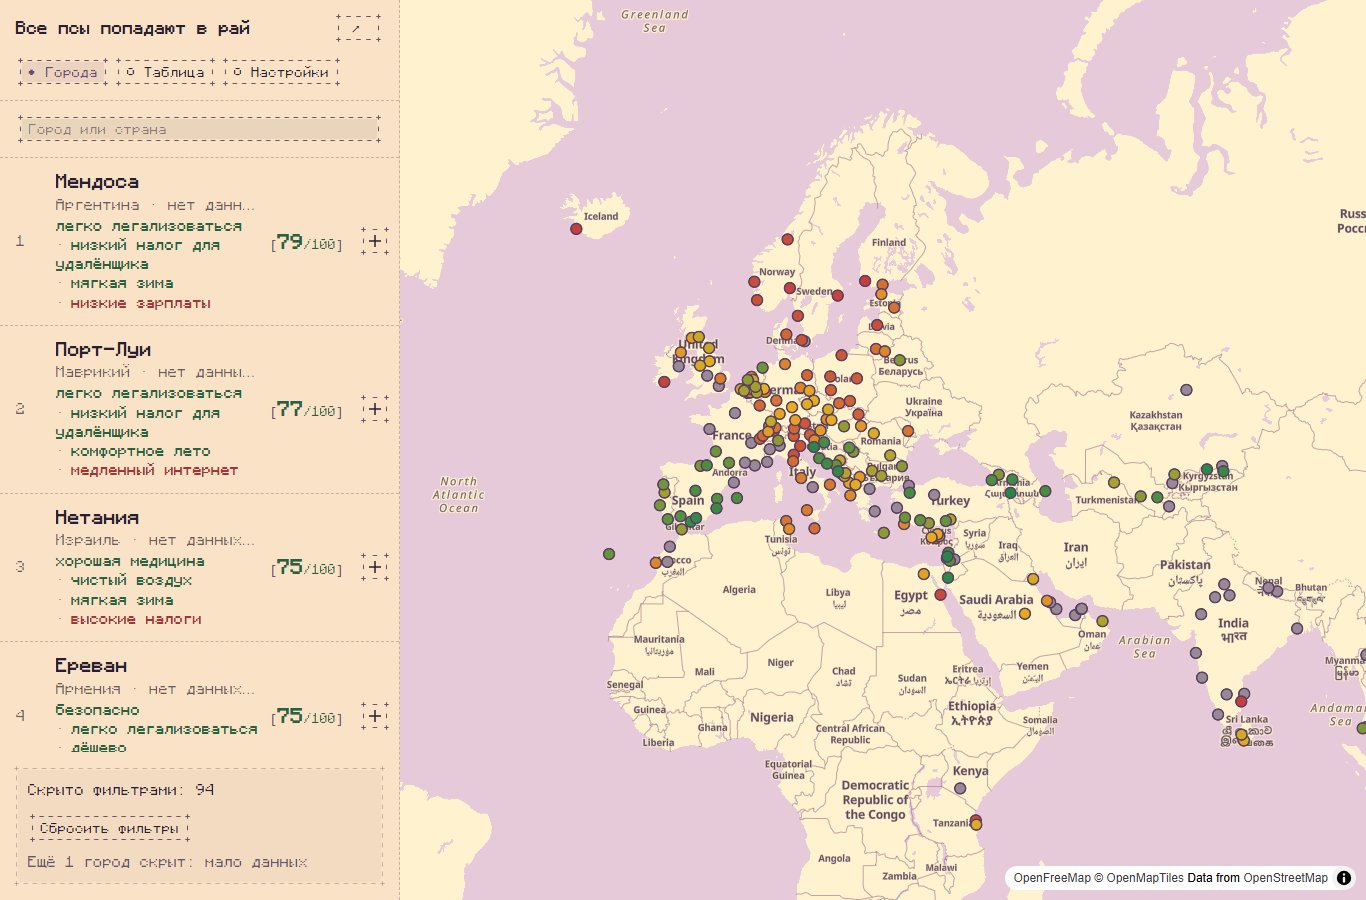
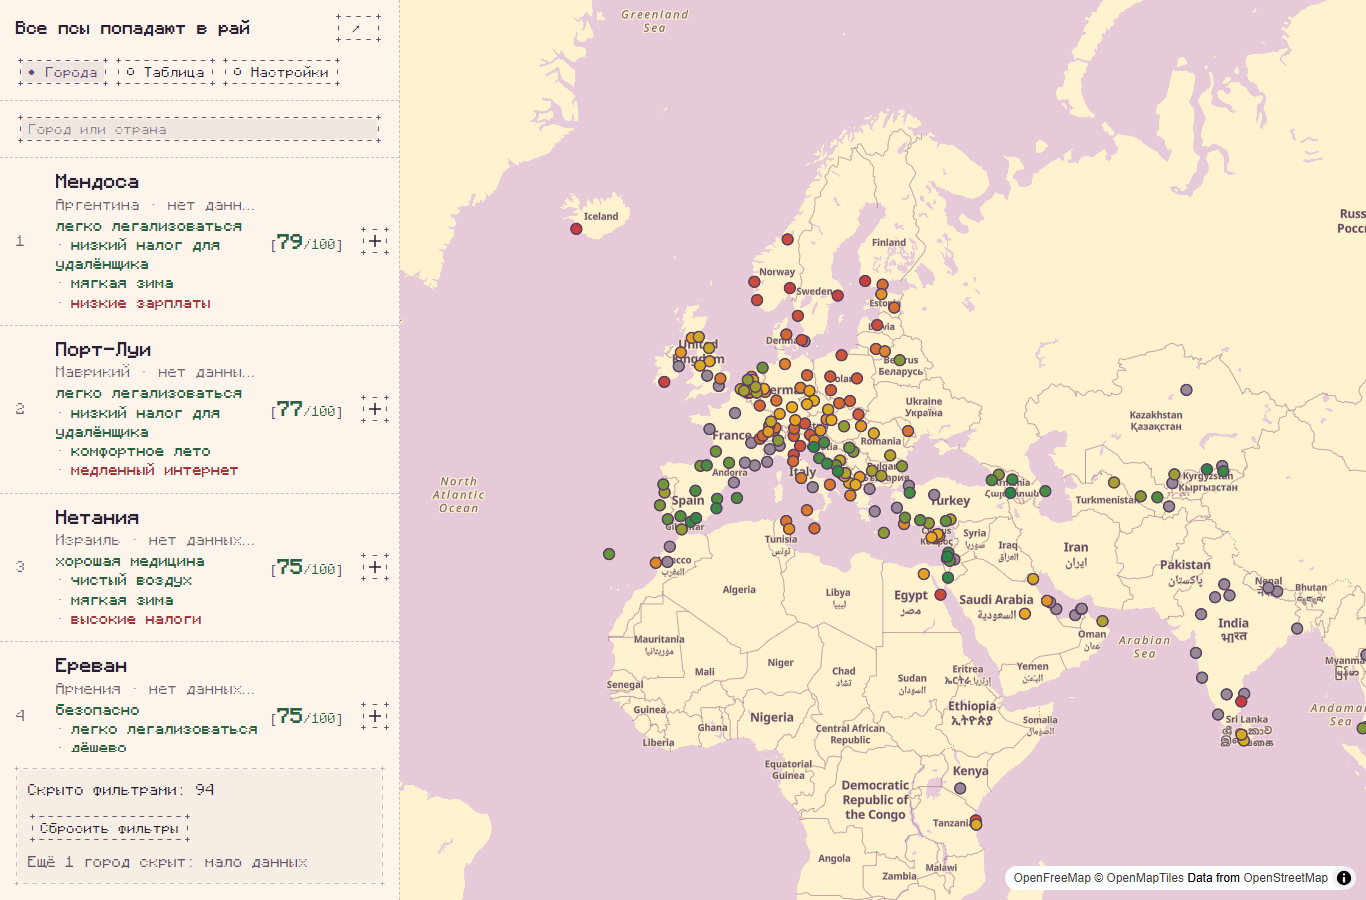
fix(ui): lighten peach background with two thirds white

Changed region(s): [[0.0, 0.0, 0.3075, 1.0]]

diff --git a/src/shared/lib/palette/index.ts b/src/shared/lib/palette/index.ts
@@ -1,6 +1,7 @@
 /** Calm Sunset by Paulina Riva (Lospec), adapted for readable application surfaces. */
 export const APP_COLORS = {
-  background: '#f9e2c5',
+  // sRGB: 2/3 white + 1/3 #f9e2c5, rounded to the nearest channel value.
+  background: '#fdf5ec',
   surface: '#edcdbd',
   text: '#281e30',
   muted: '#685268',
